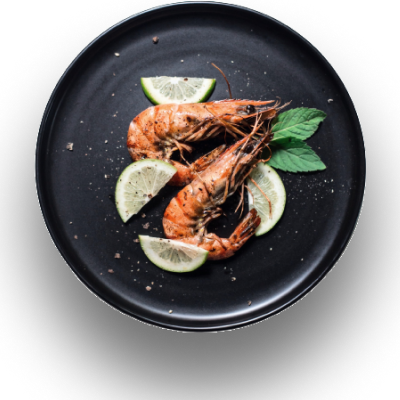
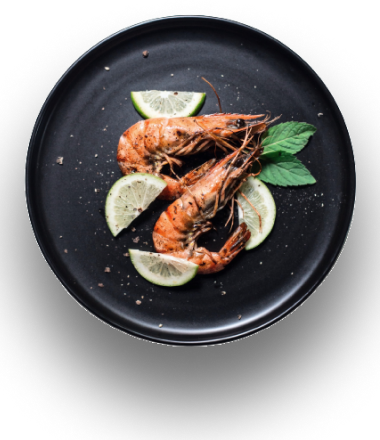
update responsive

diff --git a/lib/Screens/User/product_details.dart b/lib/Screens/User/product_details.dart
@@ -27,168 +27,178 @@ class ProductDetails extends StatelessWidget {
             ),
           ),
           body: CustomBackground(
-            child: Stack(
-              children: [
-                Positioned(
-                  bottom: 0,
-                  child: ClipPath(
-                    clipper: MyClipper(),
+            child: Padding(
+              padding: EdgeInsets.only(top: appSettings.height * 0.1),
+              child: Stack(
+                children: [
+                  Positioned(
+                    bottom: 0,
+                    child: ClipPath(
+                      clipper: MyClipper(),
+                      child: Container(
+                        width: appSettings.width,
+                        height: appSettings.height * 0.8,
+                        decoration: BoxDecoration(
+                          color: AppColors.fillColor,
+                        ),
+                        child: CustomScrollView(
+                          slivers: [
+                            SliverToBoxAdapter(
+                              child: SizedBox(height: appSettings.width * 0.2),
+                            ),
+                            // Text(
+                            //   'Fried Shrimp',
+                            //   textAlign: TextAlign.center,
+                            //   style: AppStyles.styleBold(context, 20),
+                            // ),
+                            // Text(
+                            //   'This is my kind of breakfast egg sandwich and it takes under  5 minutes to make',
+                            //   textAlign: TextAlign.center,
+                            //   style:
+                            //       AppStyles.styleMedium(context, 13).copyWith(
+                            //     color: AppColors.greyTextColors,
+                            //   ),
+                            // ),
+                            // const SizedBox(height: 15),
+                            // Row(
+                            //   mainAxisAlignment: MainAxisAlignment.center,
+                            //   children: [
+                            //     Icon(
+                            //       Icons.star_border_rounded,
+                            //       color: AppColors.greyTextColors,
+                            //     ),
+                            //     const SizedBox(width: 5),
+                            //     Text(
+                            //       '4.8(163)',
+                            //       style:
+                            //           AppStyles.styleBold(context, 12).copyWith(
+                            //         color: AppColors.greyTextColors,
+                            //       ),
+                            //     ),
+                            //     const SizedBox(width: 20),
+                            //     Icon(
+                            //       Icons.timer_outlined,
+                            //       color: AppColors.greyTextColors,
+                            //     ),
+                            //     const SizedBox(width: 5),
+                            //     Text(
+                            //       '20 min',
+                            //       style:
+                            //           AppStyles.styleBold(context, 12).copyWith(
+                            //         color: AppColors.greyTextColors,
+                            //       ),
+                            //     ),
+                            //   ],
+                            // ),
+                            // const SizedBox(height: 40),
+                            // Row(
+                            //   mainAxisAlignment: MainAxisAlignment.spaceBetween,
+                            //   children: [
+                            //     Text(
+                            //       'Ingrigients',
+                            //       style: AppStyles.styleBold(context, 15),
+                            //     ),
+                            //     Text(
+                            //       '7 items',
+                            //       style: AppStyles.styleMedium(context, 13)
+                            //           .copyWith(
+                            //         color: AppColors.greyTextColors,
+                            //       ),
+                            //     )
+                            //   ],
+                            // ),
+                            // Container(
+                            //   width: appSettings.width,
+                            //   height: 140,
+                            //   padding: const EdgeInsets.symmetric(vertical: 10),
+                            //   // color: Colors.white,
+                            //   child: ListView.separated(
+                            //     scrollDirection: Axis.horizontal,
+                            //     itemCount: 7,
+                            //     separatorBuilder: (context, index) =>
+                            //         const SizedBox(width: 10),
+                            //     itemBuilder: (context, index) {
+                            //       return const IngridientsBox(
+                            //         image: 'assets/images/brocoli.png',
+                            //         title: 'Brocoli',
+                            //       );
+                            //     },
+                            //   ),
+                            // ),
+                            // const SizedBox(height: 40),
+                            // Row(
+                            //   mainAxisAlignment: MainAxisAlignment.start,
+                            //   children: [
+                            //     SizedBox(
+                            //       child: Image.asset('assets/images/41.png'),
+                            //     ),
+                            //     const SizedBox(width: 10),
+                            //     Column(
+                            //       mainAxisAlignment:
+                            //           MainAxisAlignment.spaceAround,
+                            //       crossAxisAlignment: CrossAxisAlignment.start,
+                            //       children: [
+                            //         Text(
+                            //           'Product family ',
+                            //           style: AppStyles.styleMedium(context, 20),
+                            //         ),
+                            //         const Icon(
+                            //           Icons.star,
+                            //           color: Color(0xffFDB022),
+                            //         )
+                            //       ],
+                            //     )
+                            //   ],
+                            // ),
+                            // const SizedBox(height: 40),
+                            // Row(
+                            //   children: [
+                            //     Text(
+                            //       'Size',
+                            //       style: AppStyles.styleRegular(context, 15),
+                            //     ),
+                            //   ],
+                            // ),
+                            // Container(
+                            //   width: appSettings.width,
+                            //   height: appSettings.height * 0.2,
+                            //   color: const Color(0xFF161616),
+                            // ),
+                          ],
+                        ),
+                      ),
+                    ),
+                  ),
+                  Align(
+                    alignment: Alignment.topCenter,
                     child: Container(
-                      width: appSettings.width,
-                      height: appSettings.height * 0.8,
-                      padding: EdgeInsets.only(
-                        top: appSettings.height * 0.1,
-                        left: appSettings.width * 0.05,
-                        right: appSettings.width * 0.05,
-                      ),
-                      decoration: BoxDecoration(
-                        color: AppColors.fillColor,
-                      ),
-                      child: Center(
-                        child: ListView(
+                      padding: const EdgeInsets.all(8),
+                      width: appSettings.width * 0.6,
+                      //color: Colors.white,
+                      child: AspectRatio(
+                        aspectRatio: 1,
+                        child: Stack(
                           children: [
-                            Text(
-                              'Fried Shrimp',
-                              textAlign: TextAlign.center,
-                              style: AppStyles.styleBold(context, 20),
-                            ),
-                            Text(
-                              'This is my kind of breakfast egg sandwich and it takes under  5 minutes to make',
-                              textAlign: TextAlign.center,
-                              style:
-                                  AppStyles.styleMedium(context, 13).copyWith(
-                                color: AppColors.greyTextColors,
+                            Align(
+                              alignment: Alignment.topCenter,
+                              child: Image.asset(
+                                AppImages.salade,
                               ),
                             ),
-                            const SizedBox(height: 15),
-                            Row(
-                              mainAxisAlignment: MainAxisAlignment.center,
-                              children: [
-                                Icon(
-                                  Icons.star_border_rounded,
-                                  color: AppColors.greyTextColors,
-                                ),
-                                const SizedBox(width: 5),
-                                Text(
-                                  '4.8(163)',
-                                  style:
-                                      AppStyles.styleBold(context, 12).copyWith(
-                                    color: AppColors.greyTextColors,
-                                  ),
-                                ),
-                                const SizedBox(width: 20),
-                                Icon(
-                                  Icons.timer_outlined,
-                                  color: AppColors.greyTextColors,
-                                ),
-                                const SizedBox(width: 5),
-                                Text(
-                                  '20 min',
-                                  style:
-                                      AppStyles.styleBold(context, 12).copyWith(
-                                    color: AppColors.greyTextColors,
-                                  ),
-                                ),
-                              ],
-                            ),
-                            const SizedBox(height: 40),
-                            Row(
-                              mainAxisAlignment: MainAxisAlignment.spaceBetween,
-                              children: [
-                                Text(
-                                  'Ingrigients',
-                                  style: AppStyles.styleBold(context, 15),
-                                ),
-                                Text(
-                                  '7 items',
-                                  style: AppStyles.styleMedium(context, 13)
-                                      .copyWith(
-                                    color: AppColors.greyTextColors,
-                                  ),
-                                )
-                              ],
-                            ),
-                            Container(
-                              width: appSettings.width,
-                              height: 140,
-                              padding: const EdgeInsets.symmetric(vertical: 10),
-                              // color: Colors.white,
-                              child: ListView.separated(
-                                scrollDirection: Axis.horizontal,
-                                itemCount: 7,
-                                separatorBuilder: (context, index) =>
-                                    const SizedBox(width: 10),
-                                itemBuilder: (context, index) {
-                                  return const IngridientsBox(
-                                    image: 'assets/images/brocoli.png',
-                                    title: 'Brocoli',
-                                  );
-                                },
+                            Align(
+                              alignment: Alignment.bottomCenter,
+                              child: Image.asset(
+                                AppImages.plat,
+                                width: appSettings.width * 0.5,
                               ),
-                            ),
-                            const SizedBox(height: 40),
-                            Row(
-                              mainAxisAlignment: MainAxisAlignment.start,
-                              children: [
-                                SizedBox(
-                                  child: Image.asset('assets/images/41.png'),
-                                ),
-                                const SizedBox(width: 10),
-                                Column(
-                                  mainAxisAlignment:
-                                      MainAxisAlignment.spaceAround,
-                                  crossAxisAlignment: CrossAxisAlignment.start,
-                                  children: [
-                                    Text(
-                                      'Product family ',
-                                      style: AppStyles.styleMedium(context, 20),
-                                    ),
-                                    const Icon(
-                                      Icons.star,
-                                      color: Color(0xffFDB022),
-                                    )
-                                  ],
-                                )
-                              ],
-                            ),
-                            const SizedBox(height: 40),
-                            Row(
-                              children: [
-                                Text(
-                                  'Size',
-                                  style: AppStyles.styleRegular(context, 15),
-                                ),
-                              ],
-                            ),
-                            Container(
-                              width: appSettings.width,
-                              height: appSettings.height * 0.2,
-                              color: const Color(0xFF161616),
                             ),
                           ],
                         ),
                       ),
                     ),
                   ),
-                ),
-                Align(
-                  alignment: Alignment.topCenter,
-                  child: Container(
-                    padding: EdgeInsets.only(top: appSettings.height * 0.12),
-                    width: appSettings.width * 0.5,
-                    child: Stack(
-                      children: [
-                        Image.asset(
-                          AppImages.salade,
-                        ),
-                        Image.asset(
-                          AppImages.plat,
-                        ),
-                      ],
-                    ),
-                  ),
-                ),
-              ],
+                ],
+              ),
             ),
           ),
         );
